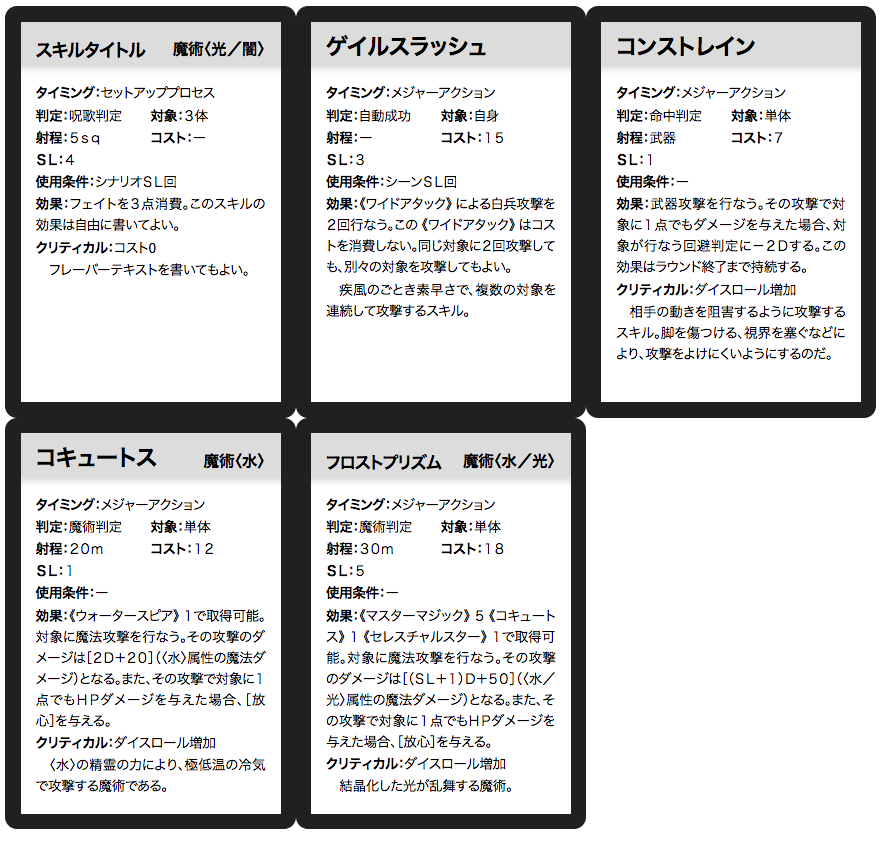
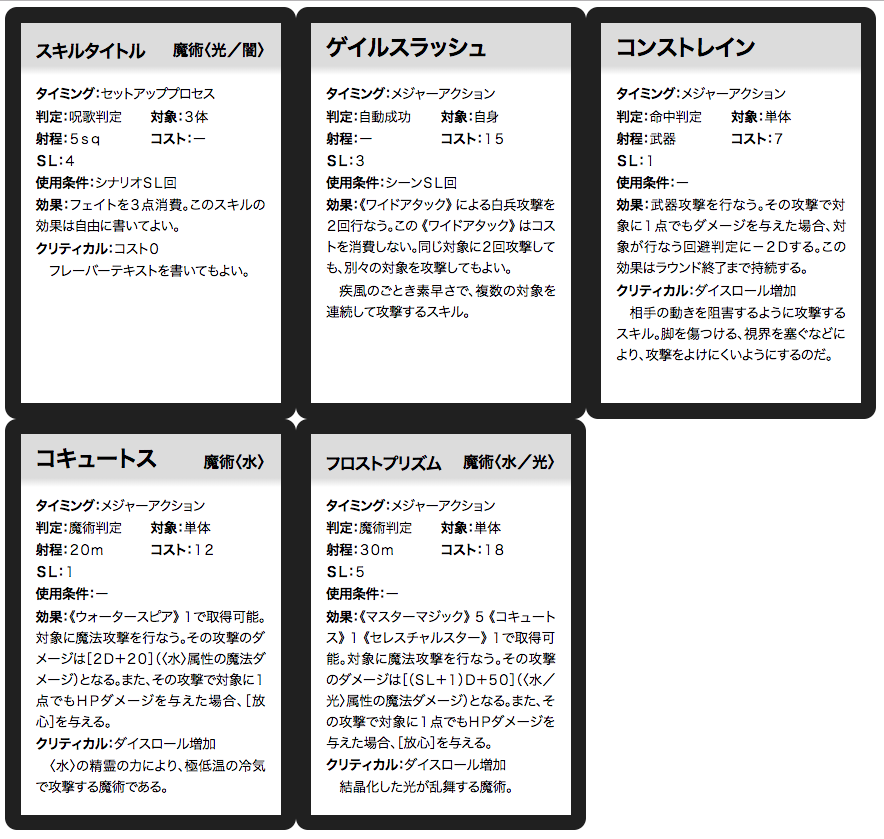
fix critical cost 0

diff --git a/sample.html b/sample.html
@@ -232,7 +232,7 @@ body {
           <p class="skill-level-now">４</p>
           <p class="limitation">シナリオＳＬ回</p>
           <p class="effect">フェイトを３点消費。このスキルの効果は自由に書いてよい。</p>
-          <p class="critical">コスト0</p>
+          <p class="critical">コスト０</p>
           <p class="flavor">フレーバーテキストを書いてもよい。</p>
         </div>
       </div>

diff --git a/skill_cards_generator/skill_crawler.py b/skill_cards_generator/skill_crawler.py
@@ -56,7 +56,7 @@ unify_timing_table: List[Tuple[str, Set[str]]] = [
 
 unify_critical_table: List[Tuple[str, Set[str]]] = [
     ('ダイスロール増加', {'ダイスロール増', 'DR増加', 'DR増', 'D増', 'DR', '増加', '増'}),
-    ('コスト0', {'0', 'cost0', 'cost', 'ct0', 'ct'})
+    ('コスト０', {'0', 'コスト0', 'cost0', 'cost', 'ct0', 'ct'})
 ]
 
 unify_effect_table: List[Tuple[str, str]] = [
